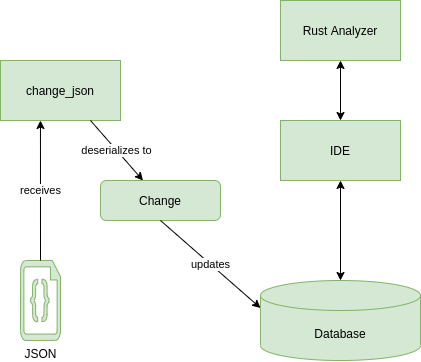
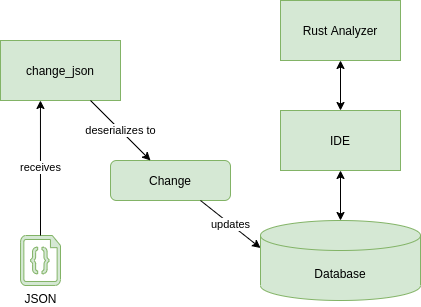
add Fig. 2 text to README.md

diff --git a/README.md b/README.md
@@ -33,6 +33,12 @@ This process, in a strongly simplified way, is visualized in Fig.1 below:
   </p>
 </figure>
 
+Here, all the crates which are colored in red won't compile to WebAssembly. This is due to the access to the local file system but also since various calls to rustc are involved and also due to many other non compatible dependencies.
+
+However, all the tools which are provided by the IDE crate compile flawlessly as well as the RA Databse to which also the Change object berlongs, as same as all the other dependencies of these crates whcih are asbtracted away in Fig. 1.
+
+Now the role of the `crate_extractor` crate is to create the `Change` object in more or less the same way that the `project_model` crate does it. But then, instead of sending it to the Rust Analyzer database it utilizes the `change_json` crate to parse it to JSON. The `change_json` crate defines its own JSON structure which is (de-)serializable by [Serde JSON](https://github.com/serde-rs/json), as well as the required tools to voncert the `Change` object to its corresponding JSON structure and vice-versa, see Fig. 2 below for a visualization of this interaction:
+
 <figure>
 <p align="center">
   <img src="architecture2.png" alt="Cli Tool">
